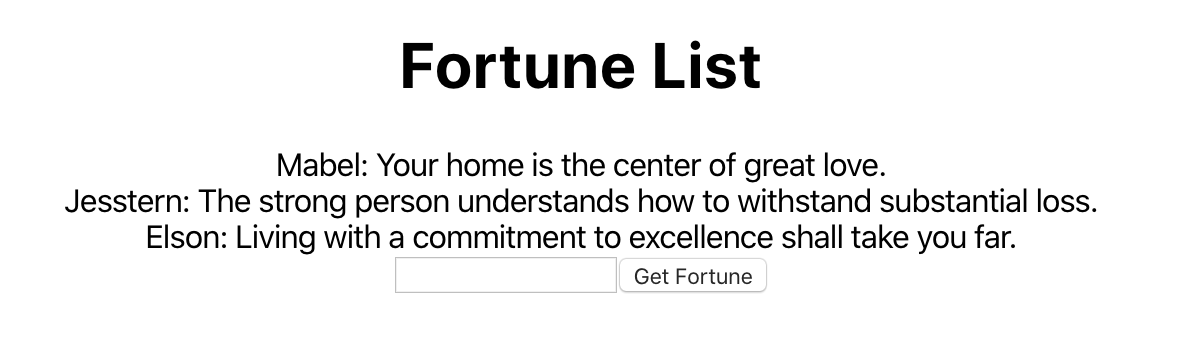
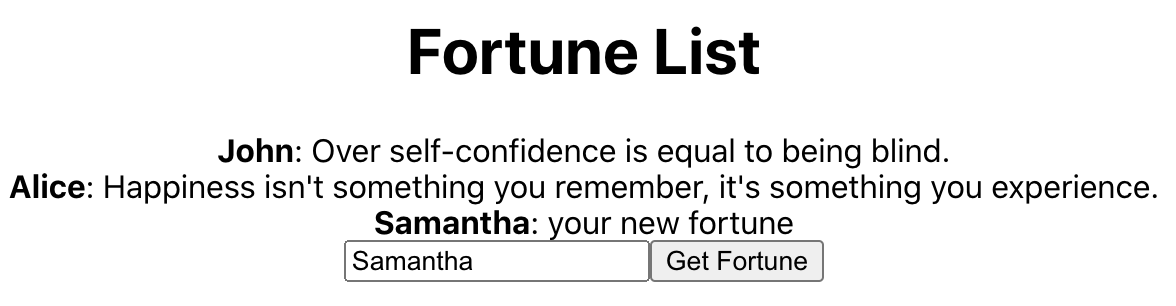
Improve notes/code snippets on react-redux

Changed region(s): [[0.0, 0.4412, 0.9796, 0.9412], [0.3367, 0.0882, 0.6429, 0.2647]]

diff --git a/docs/frontend/react-redux.md b/docs/frontend/react-redux.md
@@ -41,7 +41,7 @@ If your component requires lots of data sharing between component, your app is g
 
 ### Retrieving data:
 
-Redux helps you to create a common object(`store`) that hold all shared data. Data in `store` is a combination of all the different data for the individual component. Data in the `store` is made available to different components base on a subscription model(using `connect`). We can create a function(`mapStateToProps`) to map the data into the `props` of the component letting the component have access to the data.
+Redux helps you to create a common object (`store`) that holds all shared data. Data in `store` is a combination of all the different data for the individual component. Data in the `store` is made available to different components based on a subscription model (using `connect`). We can create a function (`mapStateToProps`) to map the data into the `props` of the component, thus allowing the component access to the data.
 
 store => mapStateToProps => component.props
 
@@ -76,23 +76,26 @@ const initialState = {
   predictions: [
     {
       id: 0,
-      name: "John Smith",
+      name: "John",
       fortune: "Over self-confidence is equal to being blind.",
     },
     {
       id: 1,
-      name: "Alice"
-      fortune: "Happiness isn't something you remember, it's something you experience."
-    }
+      name: "Alice",
+      fortune:
+        "Happiness isn't something you remember, it's something you experience.",
+    },
   ],
 };
 
-export default function(state = initialState, action) {
+function fortunesReducer(state = initialState, action) {
   switch (action.type) {
     default:
       return state;
   }
 }
+
+export default fortunesReducer;
 ```
 
 A reducer takes in the current state of the object, and an `action`. We are going to look at the `action` in a later section.
@@ -128,9 +131,8 @@ We then can connect our app to our store
 src/App.js
 
 ```javascript
-import React from "react";
 import { Provider } from "react-redux";
-import store from "./store";
+import store from "./store"; // remember, this automatically resolves for an index.js file
 import FortuneList from "./components/FortuneList";
 import "./App.css";
 
@@ -147,9 +149,27 @@ function App() {
 export default App;
 ```
 
-Here we import in the created `store` from `./store`. For our react app to use the data, we need a `Provider` wrap around the app component. Now, all component inside have access to the store.
+Here we import in the created `store` from `./store`. For our react app to use the data, we need a `Provider` wrapped around the app component. Now, all components inside will have access to the store.
 
 ## Get data from the store
+
+src/components/UserFortune.js
+
+```js
+import React from "react";
+
+const UserFortune = ({ name, prediction }) => {
+  return (
+    <React.Fragment>
+      <div>
+        <b>{name}</b>: {prediction}
+      </div>
+    </React.Fragment>
+  );
+};
+
+export default UserFortune;
+```
 
 src/components/FortuneList.js
 
@@ -178,9 +198,11 @@ export default connect(mapStateToProps)(FortuneList);
 ```
 
 First, we import `connect` form `react-redux`.
+
 Write a function, `mapStateToProps`, the function returns data that get added to the props. In the state, we have all the data inside the store.
+
 Recall in earlier section, `const reducers = combineReducers({ fortunes });`
-When data in the store gets updated. The method triggers, and if there is a change in the `props` that we return in `mapStateToProps`, the component gets re-render.
+When data in the store gets updated, the method triggers - and if there is a change in the `props` that we return in `mapStateToProps`, the component gets re-rendered.
 
 Now, the fortune data is available in the component.
 
@@ -193,10 +215,10 @@ First, we create an action creator. The action creator returns an object with `t
 src/actions/index.js
 
 ```javascript
-export const ADD_FORTUNE_TYPE = "ADD_FORTUNE";
+export const ADD_FORTUNE = "ADD_FORTUNE";
 export const addFortune = (id, name, fortune) => {
   return {
-    type: ADD_FORTUNE_TYPE,
+    type: ADD_FORTUNE,
     payload: {
       id,
       name,
@@ -211,26 +233,29 @@ When the reducer receives the `ADD_FORTUNE` action, we then add the new predicti
 src/store/fortunes.js
 
 ```javascript
-import { ADD_FORTUNE_TYPE } from "../actions";
+import { ADD_FORTUNE } from "../actions";
 
 const initialState = {
   predictions: [],
 };
 
-export default function (state = initialState, action) {
+function fortunesReducer(state = initialState, action) {
   switch (action.type) {
-    case ADD_FORTUNE_TYPE:
+    case ADD_FORTUNE:
       return {
         ...state,
         predictions: [...state.predictions, action.payload],
       };
+
     default:
       return state;
   }
 }
+
+export default fortunesReducer;
 ```
 
-Dispatching the add fortune action when the button gets pressed.
+Dispatching the `ADD_FORTUNE` action when the button gets pressed:
 
 src/components/FortuneList.js
 
@@ -239,8 +264,7 @@ import React, { useState } from "react";
 import { connect } from "react-redux";
 import UserFortune from "./UserFortune";
 import { addFortune } from "../actions";
-import uuid from "uuid/v1";
-import fortuneTeller from "../utils/fortuneTeller";
+import { v4 as uuidv4 } from "uuid"; // npm install uuid
 
 const FortuneList = ({ fortunes, addFortune }) => {
   const [newName, setNewName] = useState("");
@@ -259,8 +283,7 @@ const FortuneList = ({ fortunes, addFortune }) => {
         />
         <button
           onClick={() => {
-            addFortune(uuid(), newName, fortuneTeller());
-            setNewName("");
+            addFortune(uuidv4(), newName, "your new fortune");
           }}
         >
           Get Fortune
